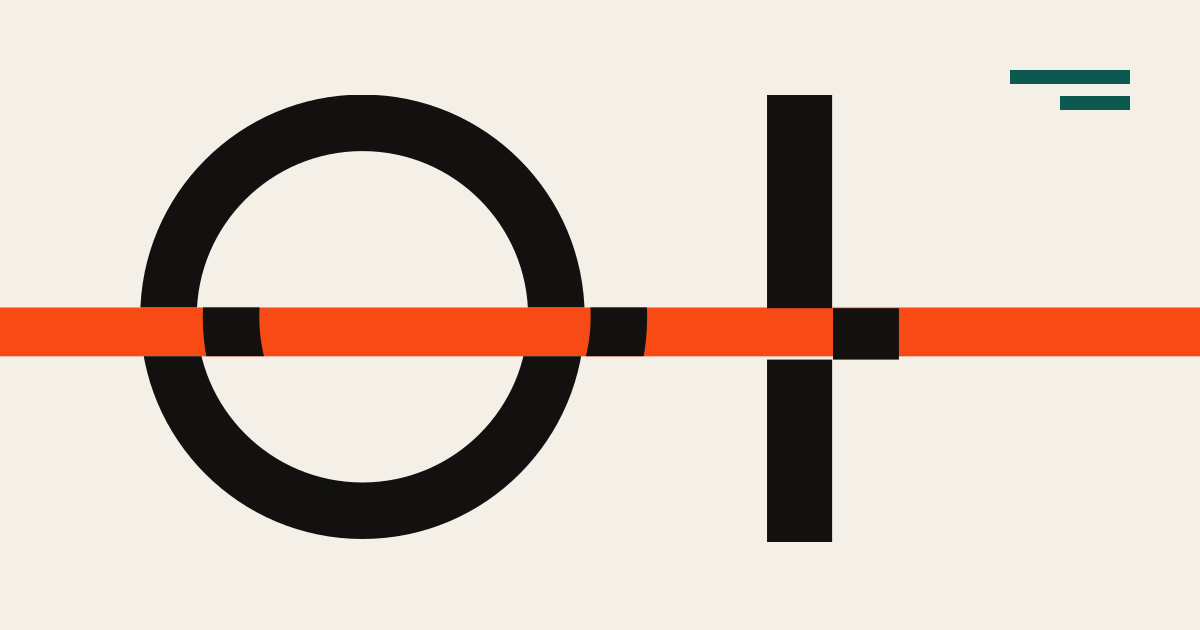
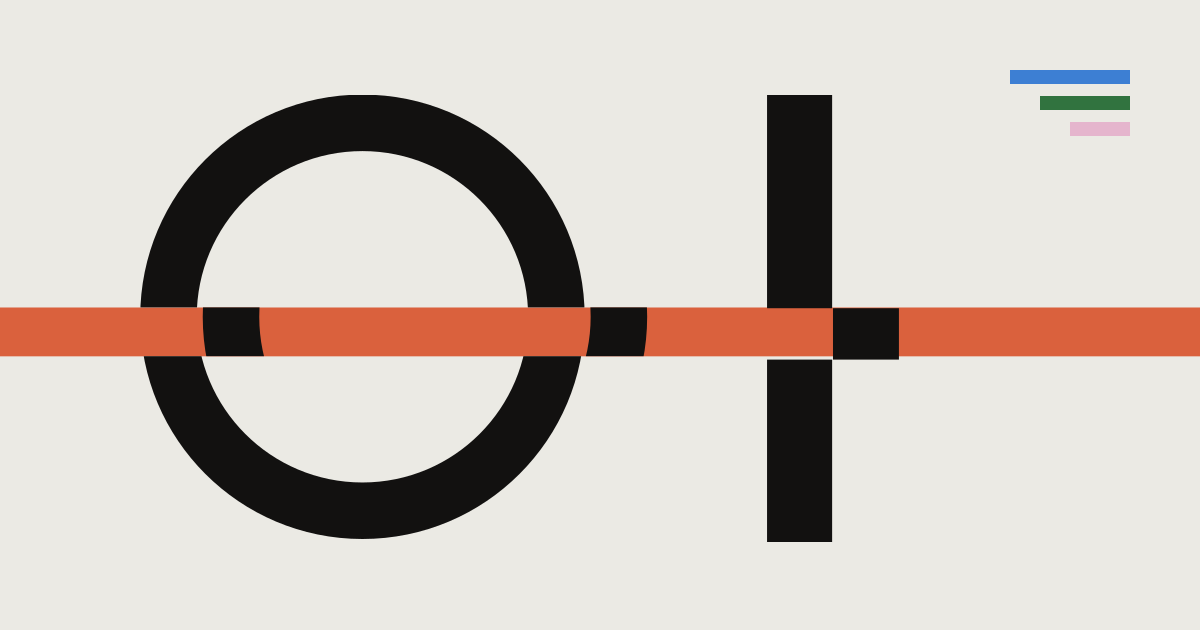
Apply new colour palette: cobalt/lime, cream/vermilion, forest/pink
Claude-Session: https://claude.ai/code/session_01Y9nUSma5ncxdLmPkceZZSK

diff --git a/src/styles/global.css b/src/styles/global.css
@@ -8,26 +8,35 @@
 @import '@fontsource-variable/jetbrains-mono/wght.css';
 
 :root {
-  /* Palette ------------------------------------------------------------- */
-  --ink: #121110;          /* the logo's black, slightly warm */
-  --paper: #f4f0e8;        /* warm off-white: human, not lab-white */
-  --pumice: #e4ddd0;       /* quiet surface */
-  --ash: #5c574f;          /* secondary text on paper (7:1) */
-  --flare: #f74a15;        /* dominant accent: the outside, attention, energy (3.1:1 on paper: large type and fills only) */
-  --flare-ink: #b8300a;    /* flare dark enough for small text on paper */
-  --lagoon: #0c5a4f;       /* secondary: the inside, systems, intelligence */
-  --lagoon-deep: #072b26;  /* Inside view background */
-  --mist: #cde7df;         /* lagoon tint */
+  /* Palette ------------------------------------------------------------
+     Three pairings, one per discipline, plus the logo's ink:
+       Cobalt + Lime     Design & Creative  (the outside)
+       Cream + Vermilion Marketing & Growth (between), and the site's base
+       Forest + Pink     AI & Systems       (the inside), and the Inside view
+     Each pairing is about 3:1, so the coloured-on-colour combinations are for
+     large type and colour fields. Small text uses ink or cream (see README). */
+  --ink: #121110;            /* the logo's black */
+  --cream: #ebeae4;          /* base background */
+  --stone: #dddbd2;          /* quiet surface on cream */
+  --ash: #55534d;            /* secondary text on cream */
+  --vermilion: #da613d;      /* dominant accent; ink on vermilion 5.2:1 */
+  --vermilion-ink: #a8441f;  /* vermilion for small text and links on cream (5:1) */
+  --cobalt: #3d7fd3;         /* ink on cobalt 4.7:1 */
+  --lime: #e0e66b;           /* on cobalt (large), on ink, or as a fill */
+  --forest: #31733f;         /* cream on forest 4.8:1 */
+  --forest-deep: #132e1a;    /* Inside view background */
+  --forest-mid: #1e4727;     /* Inside view surfaces */
+  --pink: #e5b5cd;           /* on forest (large), on ink, or as a fill */
 
   /* Roles (swapped by the Inside view) */
-  --bg: var(--paper);
+  --bg: var(--cream);
   --fg: var(--ink);
   --muted: var(--ash);
-  --surface: var(--pumice);
+  --surface: var(--stone);
   --line: color-mix(in srgb, var(--fg) 16%, transparent);
-  --accent: var(--flare);
+  --accent: var(--vermilion);
   --accent-fg: var(--ink);
-  --link: var(--flare-ink);
+  --link: var(--vermilion-ink);
 
   /* Type ------------------------------------------------------------------ */
   --font-display: 'Bricolage Grotesque Variable', 'Arial Narrow', system-ui, sans-serif;
@@ -58,13 +67,14 @@
 
 /* The Inside view: same site, seen from the systems side. */
 :root[data-view='inside'] {
-  --bg: var(--lagoon-deep);
-  --fg: #eaf4f0;
-  --muted: #a9c7bf;
-  --surface: #0c3d36;
+  --bg: var(--forest-deep);
+  --fg: var(--cream);
+  --muted: #c3c9bf;
+  --surface: var(--forest-mid);
   --line: color-mix(in srgb, var(--fg) 18%, transparent);
-  --accent: var(--flare);
-  --link: #ff8a63;
+  --accent: var(--pink);
+  --accent-fg: var(--ink);
+  --link: var(--lime);
   color-scheme: dark;
 }
 
@@ -93,18 +103,18 @@ a { color: inherit; }
 h1, h2, h3, h4 { font-family: var(--font-display); font-weight: 700; line-height: 0.98; letter-spacing: -0.025em; text-wrap: balance; }
 p { text-wrap: pretty; }
 ul[role='list'], ol[role='list'] { list-style: none; padding: 0; }
-::selection { background: var(--flare); color: var(--ink); }
+::selection { background: var(--vermilion); color: var(--ink); }
 
 :focus-visible {
-  outline: 3px solid var(--flare);
+  outline: 3px solid var(--vermilion);
   outline-offset: 3px;
   border-radius: 2px;
 }
-:root[data-view='inside'] :focus-visible { outline-color: #ffb199; }
+:root[data-view='inside'] :focus-visible { outline-color: var(--lime); }
 
 .skip-link {
   position: absolute; left: var(--gutter); top: -100px; z-index: 100;
-  background: var(--ink); color: var(--paper); padding: 0.75rem 1rem; text-decoration: none;
+  background: var(--ink); color: var(--cream); padding: 0.75rem 1rem; text-decoration: none;
 }
 .skip-link:focus { top: 0.75rem; }
 
@@ -207,13 +217,16 @@ ul[role='list'], ol[role='list'] { list-style: none; padding: 0; }
   transition: transform 0.45s var(--ease-out);
 }
 .btn:hover::before, .btn:focus-visible::before { transform: translateX(0); }
+/* Non-accent buttons fill completely, so text colour can flip cleanly. */
+.btn:not(.btn--accent)::before { top: 0; height: 100%; }
+.btn:not(.btn--accent):hover, .btn:not(.btn--accent):focus-visible { color: var(--accent-fg); }
 .btn .btn__arrow { transition: transform 0.35s var(--ease-out-back); }
 .btn:hover .btn__arrow { transform: translateX(4px); }
-.btn--accent { --btn-bg: var(--flare); --btn-fg: var(--ink); }
+.btn--accent { --btn-bg: var(--vermilion); --btn-fg: var(--ink); }
 .btn--accent::before { background: var(--ink); opacity: 0.14; }
 .btn--ghost { --btn-bg: transparent; --btn-fg: var(--fg); border-color: var(--fg); }
-.btn--ghost::before { background: var(--accent); opacity: 0.9; }
-.btn--ghost:hover { color: var(--ink); }
+.btn--ghost::before { background: var(--accent); }
+
 .btn[disabled] { opacity: 0.6; cursor: progress; }
 .btn-row { display: flex; flex-wrap: wrap; gap: 0.75rem; }
 
@@ -224,7 +237,8 @@ ul[role='list'], ol[role='list'] { list-style: none; padding: 0; }
   padding: 0.35em 0.6em; border: 1px solid var(--line); border-radius: 2px; line-height: 1.1;
 }
 .tag--concept { background: var(--fg); color: var(--bg); border-color: var(--fg); }
-.tag--client { background: var(--lagoon); color: var(--paper); border-color: var(--lagoon); }
+.tag--client { background: var(--forest); color: var(--cream); border-color: var(--forest); }
+.tag--lime { background: var(--lime); color: var(--ink); border-color: var(--lime); }
 
 /* Inside-view notes ------------------------------------------------------------
    Each <aside class="note"> explains why a section exists. Hidden in the Outside
@@ -235,24 +249,24 @@ ul[role='list'], ol[role='list'] { list-style: none; padding: 0; }
   display: block;
   font-family: var(--font-mono); font-size: 0.8rem; line-height: 1.5;
   color: var(--fg);
-  border: 1px dashed color-mix(in srgb, var(--flare) 70%, transparent);
-  background: color-mix(in srgb, var(--lagoon-deep) 82%, var(--flare) 4%);
+  border: 1px dashed color-mix(in srgb, var(--pink) 75%, transparent);
+  background: color-mix(in srgb, var(--forest-mid) 85%, var(--pink) 6%);
   padding: 0.8rem 0.9rem; border-radius: 2px;
   max-width: 46ch; margin-block: 1.25rem;
   animation: note-in 0.5s var(--ease-out) both;
 }
-.note__label { display: block; color: #ff9b7a; text-transform: uppercase; letter-spacing: 0.08em; font-size: 0.7rem; margin-bottom: 0.3rem; }
+.note__label { display: block; color: var(--lime); text-transform: uppercase; letter-spacing: 0.08em; font-size: 0.7rem; margin-bottom: 0.3rem; }
 @keyframes note-in { from { opacity: 0; transform: translateY(6px); } }
 
 /* Blueprint grid behind everything in the Inside view */
 :root[data-view='inside'] body {
   background-image:
-    linear-gradient(color-mix(in srgb, var(--mist) 7%, transparent) 1px, transparent 1px),
-    linear-gradient(90deg, color-mix(in srgb, var(--mist) 7%, transparent) 1px, transparent 1px);
+    linear-gradient(color-mix(in srgb, var(--cream) 6%, transparent) 1px, transparent 1px),
+    linear-gradient(90deg, color-mix(in srgb, var(--cream) 6%, transparent) 1px, transparent 1px);
   background-size: 48px 48px;
   background-position: -1px -1px;
 }
-:root[data-view='inside'] .inside-outline { outline: 1px dashed color-mix(in srgb, var(--mist) 30%, transparent); outline-offset: 6px; }
+:root[data-view='inside'] .inside-outline { outline: 1px dashed color-mix(in srgb, var(--pink) 35%, transparent); outline-offset: 6px; }
 
 /* Reveal on scroll ---------------------------------------------------------- */
 .js [data-reveal] { opacity: 0; transform: translateY(24px); transition: opacity 0.8s var(--ease-out), transform 0.8s var(--ease-out); transition-delay: var(--reveal-delay, 0s); }

diff --git a/src/scripts/site.ts b/src/scripts/site.ts
@@ -12,7 +12,7 @@ function setView(view: 'outside' | 'inside', persist = true) {
     btn.setAttribute('aria-checked', String(view === 'inside'));
   });
   const meta = document.querySelector('meta[name="theme-color"]');
-  meta?.setAttribute('content', view === 'inside' ? '#072b26' : '#f4f0e8');
+  meta?.setAttribute('content', view === 'inside' ? '#132e1a' : '#ebeae4');
   if (persist) {
     try { localStorage.setItem('oi-view', view); } catch { /* storage unavailable: fine */ }
   }

diff --git a/README.md b/README.md
@@ -130,18 +130,18 @@ Create a booking page in Cal.com, Calendly or Google Calendar appointment schedu
 
 **The slice.** The logo’s cut runs through the whole site: headline text, button hovers, card hovers, rules and the eyebrow markers.
 
-**Colour.**
+**Colour.** Three colour pairings, one per discipline, around the logo's black and white:
 
-| Token | Hex | Role |
+| Pairing | Hex | Discipline / role |
 | --- | --- | --- |
-| Ink | `#121110` | The logo, text, dark sections |
-| Paper | `#F4F0E8` | Warm off-white background |
-| Flare | `#F74A15` | Dominant accent: the outside, attention. Fills and large type only on paper (3.1:1); ink on flare is 5.3:1 |
-| Flare Ink | `#B8300A` | Flare dark enough for small text and links on paper (5.3:1) |
-| Lagoon | `#0C5A4F` | Secondary: the inside, systems, AI. Paper on lagoon is 7.1:1 |
-| Lagoon Deep | `#072B26` | Inside-view background |
-| Mist | `#CDE7DF` | Lagoon tint |
-| Pumice / Ash | `#E4DDD0` / `#5C574F` | Quiet surface / secondary text (6.3:1) |
+| Cobalt + Lime | `#3D7FD3` + `#E0E66B` | Design & Creative (the outside) |
+| Cream + Vermilion | `#EBEAE4` + `#DA613D` | Marketing & Growth (between); cream is the site’s base, vermilion the main accent |
+| Forest + Pink | `#31733F` + `#E5B5CD` | AI & Systems (the inside), and the Inside view |
+| Ink | `#121110` | The logo, text, footer |
+
+Supporting tokens: Vermilion Ink `#A8441F` (small text and links on cream), Stone `#DDDBD2` (surfaces), Ash `#55534D` (secondary text), Forest Deep `#132E1A` and Forest Mid `#1E4727` (Inside view).
+
+**Contrast rule.** Each coloured pair (lime on cobalt, vermilion on cream, pink on forest) is about 3:1. That passes for large, bold type and colour fields only. For body text use ink on cobalt, vermilion, lime or pink (4.7:1 or more), and cream on forest (4.8:1). The logo stays monochrome: black on cream, cobalt, lime, pink and vermilion; white on ink and forest.
 
 **Type.** Bricolage Grotesque (display), Instrument Sans (body), JetBrains Mono (labels and Inside-view notes). All self-hosted; no requests to Google.
 

diff --git a/src/content/work/tidewater/index.md b/src/content/work/tidewater/index.md
@@ -6,7 +6,7 @@ sector: Startup · Agritech
 type: Brand identity · Website
 categories: [design-creative, marketing-growth]
 cover: ./cover.svg
-coverAlt: Green artwork of wavy kelp-like lines in cream and orange rising from the bottom, with a ringed orange dot, cut by a shifted horizontal band.
+coverAlt: Green artwork of wavy kelp-like lines in cream, pink and lime rising from the bottom, with a ringed orange dot, cut by a shifted horizontal band.
 featured: false
 order: 6
 challenge: >-

diff --git a/src/content/work/field-notes/index.md b/src/content/work/field-notes/index.md
@@ -6,7 +6,7 @@ sector: Multi-brand marketing teams
 type: AI marketing intelligence
 categories: [ai-systems, marketing-growth]
 cover: ./cover.svg
-coverAlt: Abstract data artwork with three rows of bars in black, green and orange, and a summary card in the corner, cut by a shifted horizontal band.
+coverAlt: Abstract data artwork with three rows of bars in black, blue and orange, and a summary card in the corner, cut by a shifted horizontal band.
 featured: true
 order: 2
 challenge: >-

diff --git a/src/content/work/after-steam/index.md b/src/content/work/after-steam/index.md
@@ -6,7 +6,7 @@ sector: Tourism & hospitality
 type: Visitor experience · Brand · Digital
 categories: [design-creative, marketing-growth, ai-systems]
 cover: ./cover.svg
-coverAlt: Abstract artwork of steam rings rising from dark ground under a large orange moon, cut by a shifted horizontal band.
+coverAlt: Abstract artwork of cream steam rings rising from green ground under a large orange moon, cut by a shifted horizontal band.
 featured: true
 order: 1
 challenge: >-

diff --git a/src/content/work/off-season/index.md b/src/content/work/off-season/index.md
@@ -6,7 +6,7 @@ sector: Tourism & accommodation
 type: Digital marketing campaign
 categories: [marketing-growth, design-creative]
 cover: ./cover.svg
-coverAlt: Pale artwork of an orange sun setting behind green sea stripes with a tiny beach hut, cut by a shifted horizontal band.
+coverAlt: Pink artwork of an orange sun setting behind a green sea with cream wave stripes and a tiny beach hut, cut by a shifted horizontal band.
 featured: false
 order: 5
 challenge: >-

diff --git a/src/content/work/loud-weekend/index.md b/src/content/work/loud-weekend/index.md
@@ -6,7 +6,7 @@ sector: Events & entertainment
 type: Event campaign · Content system
 categories: [design-creative, marketing-growth]
 cover: ./cover.svg
-coverAlt: Bold orange artwork of black equaliser bars of varying heights under small white stars, cut by a shifted horizontal band.
+coverAlt: Bold blue artwork of lime-yellow equaliser bars of varying heights under small pink stars, cut by a shifted horizontal band.
 featured: true
 order: 4
 challenge: >-
